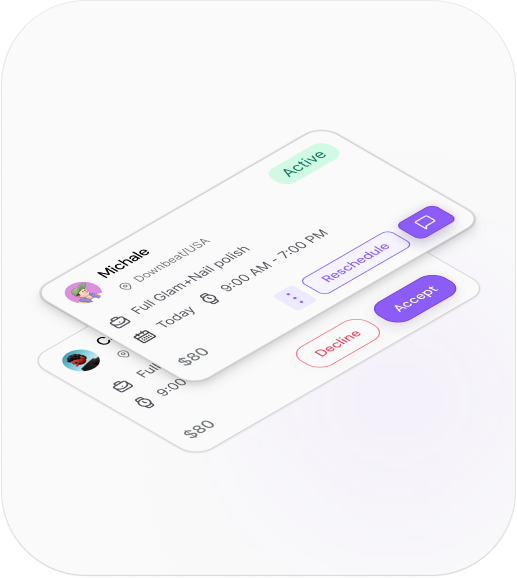
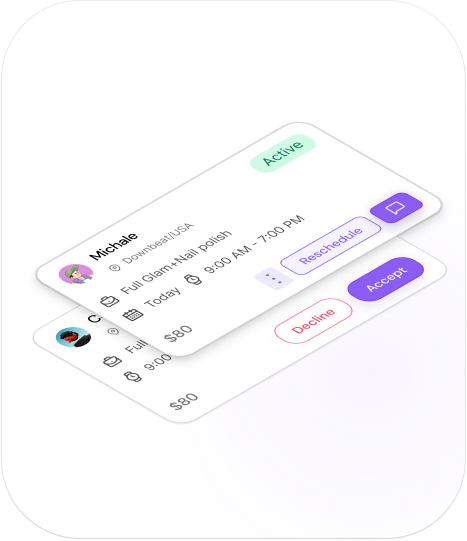
Fixed the issues

diff --git a/components/hero-section.tsx b/components/hero-section.tsx
@@ -5,45 +5,27 @@ import Link from "next/link";
 export default function HeroSection() {
   return (
     <section className="relative overflow-hidden flex flex-col items-center justify-center px-4 sm:px-6 pt-12 sm:py-40">
-      <div className="absolute inset-0 -z-10 bg-hero-section-gradient" />
+      {/* <div className="absolute inset-0 -z-10 bg-hero-section-gradient" /> */}
       {/* Main Headline */}
       <div className="max-w-4xl w-full">
-        <h1 className="text-3xl sm:text-4xl md:text-5xl lg:text-6xl xl:text-7xl font-bold text-center items-center leading-14 sm:leading-snug text-gray-900">
-          Get
-          <span className="ml-2 sm:ml-3 mr-2 sm:mr-3 py-0 text-white relative overflow-hidden rounded-[10px]">
-            <span className="absolute inset-0 py-0 bg-lookbook-text-gradient -z-10" />
-            <span className="relative z-10 py-0">Look&Book</span>
-          </span>
-          on
-          <br />
-          <span className="inline-flex items-center gap-2 sm:gap-3 flex-wrap justify-center">
-            <svg
-              xmlns="http://www.w3.org/2000/svg"
-              className="w-24 sm:w-32 md:w-40 lg:w-48 h-auto hidden md:flex"
-              viewBox="0 0 200 35"
-              fill="none"
-            >
-              <path
-                d="M177.547 0H185.574L199.069 17.03L185.574 34.06H177.547L183.817 26.1668C185.623 23.871 187.33 21.7656 188.986 19.8518H0V14.1593H188.935C187.28 12.1991 185.574 10.1413 183.817 7.89313L177.547 0Z"
-                fill="url(#paint0_linear_581_2040)"
-              />
-              <defs>
-                <linearGradient
-                  id="paint0_linear_581_2040"
-                  x1="66.1929"
-                  y1="120.537"
-                  x2="-11.4788"
-                  y2="-11.3362"
-                  gradientUnits="userSpaceOnUse"
-                >
-                  <stop stopColor="#8B5CF6" />
-                  <stop offset="1" stopColor="#5B21B6" />
-                </linearGradient>
-              </defs>
-            </svg>
-            your
-          </span>
-          <span className="ml-2 text-clip text-purple-primary">Phone</span>
+        <h1 className="text-3xl sm:text-4xl md:text-5xl lg:text-6xl xl:text-7xl font-bold leading-9 sm:leading-10 md:leading-12 lg:leading-tight text-neutral-700 font-dm-sans">
+          <div className="text-center">
+            Get
+            <span className="ml-2 mr-2 py-0 text-white relative overflow-hidden rounded-[10px]">
+              <span className="absolute inset-0 md:inset-2 py-0 bg-lookbook-text-gradient -z-10" />
+              <span className="relative z-10 py-0">Look&Book</span>
+            </span>
+            on
+          </div>
+          <div className="pl-32">
+            <span className="inline-flex items-center gap-2 sm:gap-3 flex-wrap justify-center">
+              <Image src="/line.svg" alt="Your" width={200} height={34} className="w-52 hidden md:flex" />
+            </span>
+            <span className="pl-14">
+              your
+            </span>
+            <span className="ml-2 text-clip text-purple-primary">Phone</span>
+          </div>
           <Image
             src="/line.svg"
             alt="Line"
@@ -127,8 +109,8 @@ export default function HeroSection() {
         </Link>
       </div>
 
-      {/* Blurred gradient background */}
-      <div className="absolute inset-10 -z-10 bg-hero-secondary-gradient mx-auto pt-40" />
+      {/* Blurred gradient background - starts after buttons, covers full screen */}
+      <div className="absolute inset-x-0 top-[60%] sm:top-[55%] md:top-[30%] bottom-0 -z-10 bg-hero-secondary-gradient" />
       <div className="absolute inset-x-0 bottom-0 h-48 -z-10 pointer-events-none bg-hero-white-fade" />
 
       <div className="container mx-auto relative flex justify-center pt-16 sm:pt-0 md:pt-32 px-4">

diff --git a/components/navbar.tsx b/components/navbar.tsx
@@ -45,7 +45,7 @@ export default function Navbar() {
       title: "Pricing",
       subtitle: "Packages",
       icon: "/price-logo.svg",
-      href: "/pricing",
+      href: "/#pricing",
     },
     {
       title: "Lookbook for iPhone",
@@ -103,7 +103,7 @@ export default function Navbar() {
                   {/* Backdrop */}
                   <div className="fixed inset-0 z-30" onClick={() => setIsPagesDropdownOpen(false)} />
                   {/* Dropdown Content */}
-                  <Image src="/Polygon.svg" alt="Polygon" width={35} height={20} className="absolute top-7 left-0 z-30 opacity-100"/>
+                  <Image src="/Polygon.svg" alt="Polygon" width={35} height={20} className="absolute top-7 left-0 z-30 opacity-100" />
                   <div className="absolute top-full -left-75 mt-5 w-[622px] bg-white rounded-3xl border z-40 p-8">
                     <div className="flex gap-2">
                       {/* Left Section - Navigation Items */}
@@ -154,14 +154,12 @@ export default function Navbar() {
             </li>
             <Button
               variant="outline"
-              className="px-6 py-3 cursor-pointer text-white text-lg font-rethink-sans font-semibold leading-6 hover:text-white/90 bg-transparent"
+              className="px-6 py-3 cursor-pointer text-white text-lg font-rethink-sans font-semibold leading-6 hover:text-white/90 bg-transparent shadow-lg"
               style={{
                 borderRadius: "16px",
                 border: "1px solid var(--Temp-UntitledStyle, #000)",
                 background:
                   "var(--Gradient, linear-gradient(286deg, var(--purple-500, #8B5CF6) -5.43%, var(--purple-800, #5B21B6) 111.96%))",
-                boxShadow:
-                  "0 0 0 1px #FFF inset, 0 0 0 1.5px var(--purple-50, #F5F3FF) inset, 0 0 0 1px var(--purple-300, #C4B5FD), 0 8px 16px 0 var(--purple-100, #EDE9FE), 0 16px 32px 0 var(--purple-100, #EDE9FE)",
               }}
             >
               Download App

diff --git a/app/contacts/page.tsx b/app/contacts/page.tsx
@@ -184,6 +184,14 @@ export default function Page() {
 
   return (
     <div className="relative overflow-hidden">
+        {/* White fade at top to blend with body background */}
+        <div
+        className="absolute inset-x-0 top-0 h-48 -z-10 pointer-events-none"
+        style={{
+          background: "linear-gradient(0deg, rgba(255, 255, 255, 0) 0%, rgba(255, 255, 255, 0.6) 55%, #FFFFFF 100%)",
+        }}
+      />
+
       {/* Gradient Background Layer */}
       <div
         className="absolute inset-0 pointer-events-none -z-10"
@@ -194,6 +202,10 @@ export default function Page() {
           zIndex: -1,
         }}
       />
+
+    
+      {/* White fade at bottom to blend with body background */}
+      <div className="absolute inset-x-0 bottom-0 h-48 -z-10 pointer-events-none bg-hero-white-fade" />
 
       {/* Content Layer */}
       <div className="relative z-10">

diff --git a/components/beauty-booking-section.tsx b/components/beauty-booking-section.tsx
@@ -30,7 +30,7 @@ export default function BeautyBookingSection() {
             <div className="grid grid-cols-1 lg:grid-cols-2 gap-6 sm:gap-8 md:gap-10 lg:gap-18 items-center max-w-7xl mx-auto">
                 {/* Left: Phone Mockup */}
                 <div className="flex justify-center">
-                    <Image src="/leftmock.png" alt="Phone" width={513} height={573} className="w-full" />
+                    <Image src="/leftmock.png" alt="Phone" width={463} height={573} className="w-full h-auto" />
                 </div>
 
                 {/* Right: Content */}

diff --git a/app/globals.css b/app/globals.css
@@ -218,9 +218,6 @@
   opacity: 0.32;
   background: linear-gradient(40deg, rgba(255, 212, 233, 0.24) -30.02%, rgba(193, 159, 253, 0.24) 102.61%);
   filter: blur(125px);
-  width: 1411px;
-  height: 1461px;
-  flex-shrink: 0;
 }
 
 .bg-lookbook-text-gradient {
@@ -242,7 +239,7 @@
 .bg-hero-phone-gradient {
   border-radius: 68px;
   background: linear-gradient(0deg, var(--purple-500, #8B5CF6) 23.1%, var(--orange-50, #FFF7ED) 76.9%);
-  filter: blur(40px);
+  filter: blur(35px);
 }
 
 /* Ready for Booking Gradient */

diff --git a/components/look-and-book.tsx b/components/look-and-book.tsx
@@ -3,7 +3,7 @@ import Image from "next/image";
 
 function LookAndBook() {
   return (
-    <div className="overflow-hidden">
+    <div id="pricing" className="overflow-hidden">
       <div className="container max-w-7xl mx-auto px-4 sm:px-6 py-10 sm:py-12 md:py-16 lg:py-20">
         {/* Mobile Layout - Hidden on lg and above */}
         <div className="lg:hidden space-y-6">

diff --git a/components/footer.tsx b/components/footer.tsx
@@ -67,7 +67,7 @@ export function Footer() {
                   App
                 </a>
                 <a
-                  href="#"
+                  href="/#pricing"
                   className="text-sm md:text-base text-gray-600 hover:text-gray-900 transition-colors font-poppins"
                 >
                   Pricing
